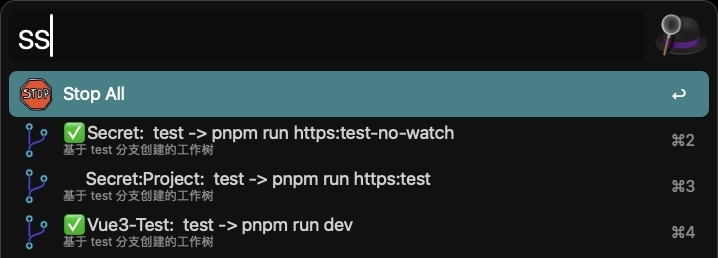
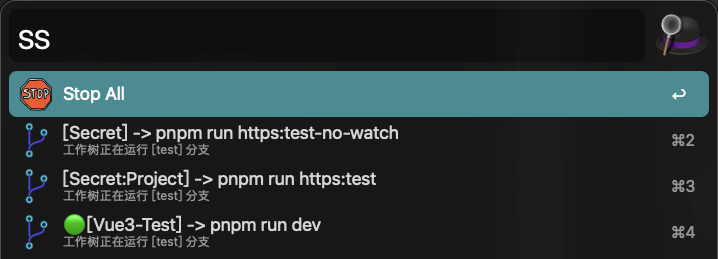
feat: title formatter support

diff --git a/src/utils.ts b/src/utils.ts
@@ -1,6 +1,6 @@
 import { exec as _exec } from 'child_process';
 import util from 'util';
-import { Args, Config, Project } from './types.js';
+import { Args, Config, Project, Style, Worktree } from './types.js';
 import find from 'find-process';
 import fs from 'fs';
 import path from 'path';
@@ -83,13 +83,6 @@ export const killProcessOnPort = async (port: string) => {
 
 export const noop = (path: string) => path;
 
-export type Worktree = {
-  root: string;
-  HEAD: string;
-  branch: string;
-  isRunning: boolean;
-};
-
 export async function parseWorktreePorcelain(output: string, project: Project) {
   const blocks = output.trim().split(/\n\s*\n/);
   const result: Worktree[] = [];
@@ -130,12 +123,13 @@ export async function parseWorktreePorcelain(output: string, project: Project) {
 export const getAllProjectsWithWorkTree = async () => {
   const currentProjectConfig = await getConfig();
   const allProjectsWithWorkTree = (currentProjectConfig.projects || []).map(async project => {
-    return new Promise<Project & { worktree: Worktree[] }>(async resolve => {
+    return new Promise<Project & { worktree: Worktree[]; style: Style }>(async resolve => {
       const gitOutput = (await exec(`cd ${project.root} && git worktree list --porcelain`)).stdout;
       const worktree = await parseWorktreePorcelain(gitOutput, project);
       resolve({
         ...project,
         worktree,
+        style: currentProjectConfig.style || {},
       });
     });
   });

diff --git a/src/worktree-filter.ts b/src/worktree-filter.ts
@@ -1,5 +1,9 @@
 import alfy, { ScriptFilterItem } from 'alfy';
 import { noop, getAllProjectsWithWorkTree } from './utils.js';
+import {
+  titleFormatter as defaultTitleFormatter,
+  subTitleFormatter as defaultSubTitleFormatter,
+} from './formatter.js';
 import { exec as _exec } from 'child_process';
 
 async function display() {
@@ -7,13 +11,15 @@ async function display() {
   const allProjectsWithWorkTree = await getAllProjectsWithWorkTree();
 
   allProjectsWithWorkTree.forEach(project => {
-    const { worktree, cmdPath = noop } = project;
+    const { worktree, cmdPath = noop, style } = project;
+    const { titleFormatter = defaultTitleFormatter, subTitleFormatter = defaultSubTitleFormatter } =
+      style;
 
     worktree.forEach(workspace => {
       const { isRunning, branch, root } = workspace;
       alfredList.push({
-        title: `${isRunning ? `✅` : '     '}${project.name}:  ${branch} -> ${project.cmd}`,
-        subtitle: `基于 ${branch} 分支创建的工作树`,
+        title: titleFormatter(project, workspace),
+        subtitle: subTitleFormatter(project, workspace),
         arg: JSON.stringify({
           branch,
           root,

diff --git a/src/types.ts b/src/types.ts
@@ -6,8 +6,21 @@ export interface Project {
   cmdPath?: (rootPath: string) => string;
 }
 
+export type Worktree = {
+  root: string;
+  HEAD: string;
+  branch: string;
+  isRunning: boolean;
+};
+
+export type Style = {
+  titleFormatter?: (project: Project, workspace: Worktree) => string;
+  subTitleFormatter?: (project: Project, workspace: Worktree) => string;
+};
+
 export interface Config {
   projects?: Project[];
+  style?: Style;
 }
 
 export interface Args {

diff --git a/src/formatter.ts b/src/formatter.ts
@@ -1,0 +1,11 @@
+import { Project, Worktree } from './types';
+
+export const titleFormatter = (project: Project, workspace: Worktree) => {
+  const { isRunning } = workspace;
+  return `${isRunning ? `🟢` : ''}[${project.name}] -> ${project.cmd}`;
+};
+
+export const subTitleFormatter = (project: Project, workspace: Worktree) => {
+  const { branch } = workspace;
+  return `工作树正在运行 [${branch}] 分支`;
+};

diff --git a/README.md b/README.md
@@ -2,7 +2,6 @@
 
 **git worktree**是git的高级功能，实际开发时如果需要不断切换分支，比起不断 `stash` 代码，更好的是为不同分支迁出不同工作树（worktree），不同分支（工作树）之间服务切换是个麻烦的问题，通过编写工作流可以自动化这个行为，同时也可以管理不同项目的服务状态。
 
-
 # 功能
 
 1. 此工作流用于快速管理多个前端项目服务，我自己每天工作都在使用它管理多个**git工作树**，减少重复劳动
@@ -13,13 +12,14 @@
 6. 可配置化
 
 # 示例
+
 1. `ss` 管理开发服务
 
-	![](./images/example1.png)
+   ![](./images/example1.png)
 
 2. `sc` 打开配置文件
 
-	![](./images/example2.png)
+   ![](./images/example2.png)
 
 # 使用
 
@@ -60,10 +60,40 @@
          port: "5173",
        },
      ],
+     style: {
+       titleFormatter(project, workspace) {
+         const { isRunning } = workspace;
+         return `${isRunning ? `🟢` : ""}[${project.name}] -> ${project.cmd}`;
+       },
+       subTitleFormatter(project, workspace) {
+         const { branch } = workspace;
+         return `工作树正在运行 [${branch}] 分支`;
+       },
+     },
+   };
+   ```
+
+6. Project和Worktree类型：
+
+   ```ts
+   export interface Project {
+     name: string;
+     root: string;
+     cmd: string;
+     port: string;
+     cmdPath?: (rootPath: string) => string;
+   }
+
+   export type Worktree = {
+     root: string;
+     HEAD: string;
+     branch: string;
+     isRunning: boolean;
    };
    ```
 
 # 注意
+
 1. 对于**Monorepo**项目，如果子包和根路径**共享**构建工具npm依赖，目前只适配了**Vite**项目，**非Monorepo**无所谓
 2. 电脑Node版本支持原生**ESM**语法（拥抱未来趋势）
 
